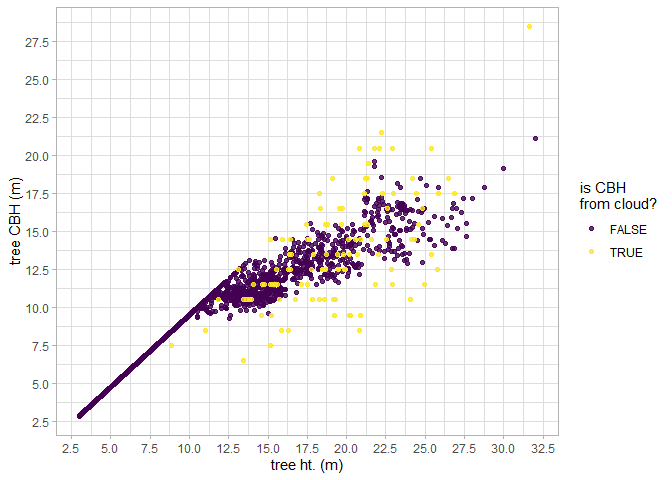
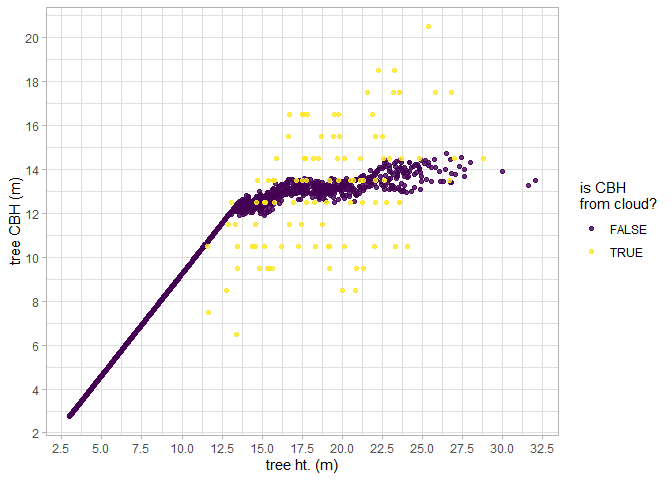
updating readme

Changed region(s): [[0.0312, 0.0312, 0.8125, 1.0]]

diff --git a/README.md b/README.md
@@ -337,19 +337,19 @@ cloud2trees_ans_c$crowns_sf %>% dplyr::glimpse()
 #> $ tree_y                    <dbl> 3813011, 3813011, 3813011, 3813011, 3813011,…
 #> $ crown_area_m2             <dbl> 6.7500, 3.3750, 9.2500, 3.5000, 0.9375, 0.31…
 #> $ geometry                  <GEOMETRY [m]> POLYGON ((481280.5 3813011,..., POL…
-#> $ fia_est_dbh_cm            <dbl> 50.937913, 39.705458, 48.135457, 32.332837, …
-#> $ fia_est_dbh_cm_lower      <dbl> 24.382098, 18.936069, 22.859550, 15.499458, …
-#> $ fia_est_dbh_cm_upper      <dbl> 85.92419, 66.70151, 81.13552, 54.26160, 39.6…
-#> $ dbh_cm                    <dbl> 50.937913, 39.705458, 48.135457, 32.332837, …
+#> $ fia_est_dbh_cm            <dbl> 51.323858, 39.269958, 48.169414, 32.185734, …
+#> $ fia_est_dbh_cm_lower      <dbl> 24.129406, 18.794239, 22.916052, 15.134360, …
+#> $ fia_est_dbh_cm_upper      <dbl> 86.50807, 65.80713, 80.89456, 53.77792, 39.0…
+#> $ dbh_cm                    <dbl> 51.323858, 39.269958, 48.169414, 32.185734, …
 #> $ is_training_data          <lgl> FALSE, FALSE, FALSE, FALSE, FALSE, FALSE, FA…
-#> $ dbh_m                     <dbl> 0.50937913, 0.39705458, 0.48135457, 0.323328…
-#> $ radius_m                  <dbl> 0.25468956, 0.19852729, 0.24067728, 0.161664…
-#> $ basal_area_m2             <dbl> 0.203784980, 0.123819856, 0.181978498, 0.082…
-#> $ basal_area_ft2            <dbl> 2.19354152, 1.33279693, 1.95881655, 0.883794…
+#> $ dbh_m                     <dbl> 0.51323858, 0.39269958, 0.48169414, 0.321857…
+#> $ radius_m                  <dbl> 0.25661929, 0.19634979, 0.24084707, 0.160928…
+#> $ basal_area_m2             <dbl> 0.206884747, 0.121118578, 0.182235345, 0.081…
+#> $ basal_area_ft2            <dbl> 2.22690742, 1.30372037, 1.96158126, 0.875770…
 #> $ ptcld_extracted_dbh_cm    <dbl> NA, NA, NA, NA, NA, NA, NA, NA, NA, NA, NA, …
 #> $ ptcld_predicted_dbh_cm    <dbl> NA, NA, NA, NA, NA, NA, NA, NA, NA, NA, NA, …
-#> $ tree_cbh_m                <dbl> 17.243033, 12.814300, 16.922000, 8.500000, 1…
-#> $ is_training_cbh           <lgl> FALSE, FALSE, FALSE, TRUE, FALSE, FALSE, FAL…
+#> $ tree_cbh_m                <dbl> 18.500000, 13.455123, 13.703097, 13.344988, …
+#> $ is_training_cbh           <lgl> TRUE, FALSE, FALSE, FALSE, FALSE, FALSE, FAL…
 #> $ comp_trees_per_ha         <dbl> 990.0593, 990.0593, 2227.6334, 5445.3261, 54…
 #> $ comp_relative_tree_height <dbl> 0.9099468, 0.8115878, 0.8780488, 1.0000000, …
 #> $ comp_dist_to_nearest_m    <dbl> 2.5000000, 2.5000000, 2.6100766, 1.5206906, …
@@ -434,7 +434,11 @@ plt_cbh <-
   ggplot2::theme_void() +
   ggplot2::theme(legend.position = "top", legend.direction = "horizontal")
 # combine with patchwork
-plt_ht + plt_dbh + plt_cbh + patchwork::plot_layout(ncol = 2)
+plt_ht + plt_dbh + plt_cbh + patchwork::plot_layout(ncol = 2) &
+  ggplot2::theme(
+    legend.title = ggplot2::element_text(size = 8)
+    , legend.text = ggplot2::element_text(size = 7)
+  )
 ```
 
 <img src="man/figures/README-unnamed-chunk-19-1.png" width="100%" />
@@ -562,19 +566,19 @@ tl_dbh %>% dplyr::glimpse()
 #> Rows: 21
 #> Columns: 16
 #> $ treeID                 <chr> "1", "2", "3", "4", "5", "6", "7", "8", "9", "1…
-#> $ tree_x                 <dbl> 458068.1, 458062.8, 458050.1, 458060.5, 458061.…
-#> $ tree_y                 <dbl> 4450083, 4450059, 4450081, 4450078, 4450075, 44…
-#> $ tree_height_m          <dbl> 4.355789, 9.128754, 2.818490, 4.457037, 3.59322…
-#> $ geometry               <POINT [m]> POINT (458068.1 4450083), POINT (458062.8…
-#> $ fia_est_dbh_cm         <dbl> 6.959116, 15.675154, 4.625501, 7.119273, 5.7243…
-#> $ fia_est_dbh_cm_lower   <dbl> 3.221171, 7.193077, 2.157282, 3.309892, 2.62463…
-#> $ fia_est_dbh_cm_upper   <dbl> 11.960319, 26.635954, 7.884488, 12.126740, 9.71…
-#> $ dbh_cm                 <dbl> 6.959116, 15.675154, 4.625501, 7.119273, 5.7243…
+#> $ tree_x                 <dbl> 458072.7, 458092.2, 458076.1, 458062.7, 458058.…
+#> $ tree_y                 <dbl> 4450074, 4450083, 4450099, 4450077, 4450065, 44…
+#> $ tree_height_m          <dbl> 6.312101, 3.173333, 2.400281, 2.171915, 4.26695…
+#> $ geometry               <POINT [m]> POINT (458072.7 4450074), POINT (458092.2…
+#> $ fia_est_dbh_cm         <dbl> 10.030254, 5.168607, 4.104514, 3.854134, 6.7353…
+#> $ fia_est_dbh_cm_lower   <dbl> 4.484711, 2.284500, 1.835422, 1.749194, 2.94032…
+#> $ fia_est_dbh_cm_upper   <dbl> 17.260292, 8.995837, 7.037332, 6.699721, 11.672…
+#> $ dbh_cm                 <dbl> 10.030254, 5.168607, 4.104514, 3.854134, 6.7353…
 #> $ is_training_data       <lgl> FALSE, FALSE, FALSE, FALSE, FALSE, FALSE, FALSE…
-#> $ dbh_m                  <dbl> 0.06959116, 0.15675154, 0.04625501, 0.07119273,…
-#> $ radius_m               <dbl> 0.03479558, 0.07837577, 0.02312751, 0.03559637,…
-#> $ basal_area_m2          <dbl> 0.0038036282, 0.0192980532, 0.0016803800, 0.003…
-#> $ basal_area_ft2         <dbl> 0.04094225, 0.20772424, 0.01808761, 0.04284843,…
+#> $ dbh_m                  <dbl> 0.10030254, 0.05168607, 0.04104514, 0.03854134,…
+#> $ radius_m               <dbl> 0.05015127, 0.02584304, 0.02052257, 0.01927067,…
+#> $ basal_area_m2          <dbl> 0.0079015770, 0.0020981521, 0.0013231628, 0.001…
+#> $ basal_area_ft2         <dbl> 0.085052575, 0.022584509, 0.014242524, 0.012557…
 #> $ ptcld_extracted_dbh_cm <dbl> NA, NA, NA, NA, NA, NA, NA, NA, NA, NA, NA, NA,…
 #> $ ptcld_predicted_dbh_cm <dbl> NA, NA, NA, NA, NA, NA, NA, NA, NA, NA, NA, NA,…
 ```
@@ -692,8 +696,8 @@ trees_cbh_ans %>% dplyr::glimpse()
 #> $ comp_trees_per_ha         <dbl> NA, NA, NA, NA, NA, NA, NA, NA, NA, NA, NA, …
 #> $ comp_relative_tree_height <dbl> NA, NA, NA, NA, NA, NA, NA, NA, NA, NA, NA, …
 #> $ comp_dist_to_nearest_m    <dbl> NA, NA, NA, NA, NA, NA, NA, NA, NA, NA, NA, …
-#> $ tree_cbh_m                <dbl> 3.563903, 3.582750, 3.802509, 3.842963, 3.56…
-#> $ is_training_cbh           <lgl> FALSE, FALSE, FALSE, FALSE, FALSE, FALSE, FA…
+#> $ tree_cbh_m                <dbl> 3.261758, 3.282190, 4.053798, 1.500000, 3.25…
+#> $ is_training_cbh           <lgl> FALSE, FALSE, FALSE, TRUE, FALSE, FALSE, FAL…
 #> $ geom                      <MULTIPOLYGON [m]> MULTIPOLYGON (((458054 4450...,…
 ```
 
